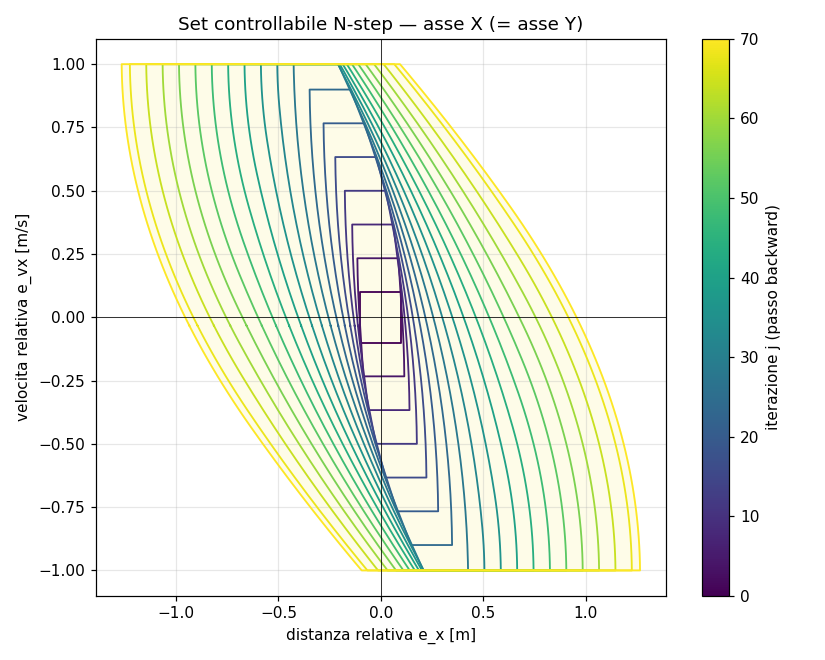
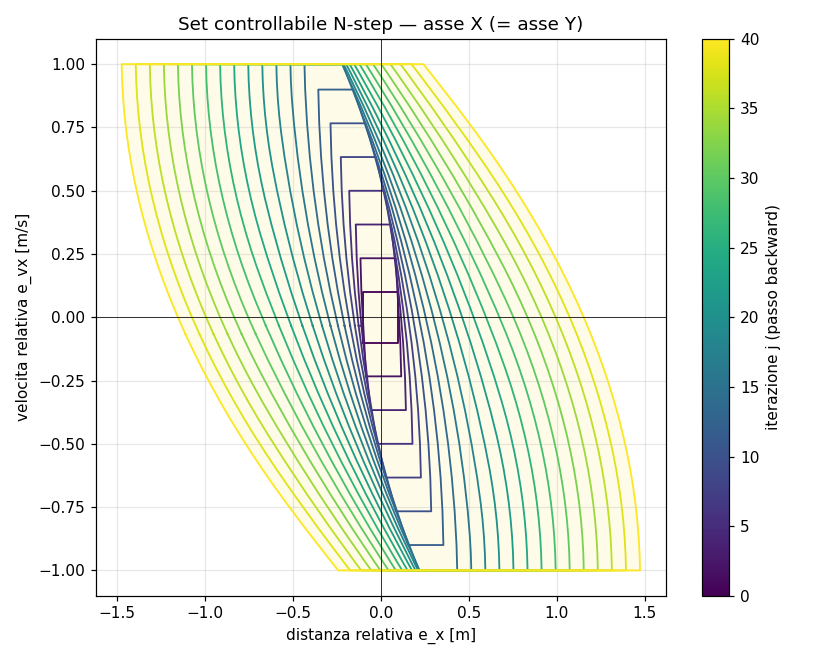
dt discrepancy between polytope and controller fixed, N decreased to 40 to have 22ms as max time needed in first MPC iteration, start tu re-tune some weight to have PID-MPC continuity

diff --git a/MPC_firmware_sim/main_alpha_landing.py b/MPC_firmware_sim/main_alpha_landing.py
@@ -206,10 +206,10 @@ def plot_advanced_diagnostics(rows, target_xy, z_land, stamp=None, alpha_cone=1.
     except ImportError:
         print("Matplotlib non disponibile per i plot avanzati.")
         return
-
+ 
     if not rows:
         return
-
+ 
     # Genera un timestamp se non viene passato
     if stamp is None:
         stamp = datetime.now().strftime("%Y%m%d_%H%M%S")
@@ -217,7 +217,7 @@ def plot_advanced_diagnostics(rows, target_xy, z_land, stamp=None, alpha_cone=1.
     # Crea la cartella se non esiste
     save_dir = "last_run_plots"
     os.makedirs(save_dir, exist_ok=True)
-
+ 
     # 1. Estrazione dati dal dizionario
     t = np.array([r["t"] for r in rows])
     pos = np.array([[r["x"], r["y"], r["z"]] for r in rows]).T
@@ -227,7 +227,7 @@ def plot_advanced_diagnostics(rows, target_xy, z_land, stamp=None, alpha_cone=1.
     
     landing_mask = (state_str == "landing")
     fp = np.array([target_xy[0], target_xy[1], z_land])
-
+ 
     # =====================================================================
     # PLOT 1: Traiettoria 3D e 2D (Reale vs LOS)
     # =====================================================================
@@ -235,7 +235,7 @@ def plot_advanced_diagnostics(rows, target_xy, z_land, stamp=None, alpha_cone=1.
     ax3d = fig3d.add_subplot(111, projection='3d')
     fig2d = plt.figure(figsize=(10, 8))
     ax2d = fig2d.add_subplot(111)
-
+ 
     # 3D
     ax3d.plot(pos[0], pos[1], pos[2], label="Trajectory", color='b', linewidth=2)
     ax3d.plot(los[0], los[1], los[2], label="LOS Target", color='g', linestyle='--', linewidth=1.5)
@@ -252,7 +252,7 @@ def plot_advanced_diagnostics(rows, target_xy, z_land, stamp=None, alpha_cone=1.
     png_3d = f"{save_dir}/flight_{stamp}_3d_track.png"
     fig3d.savefig(png_3d, dpi=110)
     print(f"Plot 3D salvato: {png_3d}")
-
+ 
     # 2D
     ax2d.plot(pos[0], pos[1], label="Trajectory", color='b', linewidth=2)
     ax2d.plot(los[0], los[1], label="LOS Target", color='g', linestyle='--', linewidth=1.5)
@@ -267,7 +267,7 @@ def plot_advanced_diagnostics(rows, target_xy, z_land, stamp=None, alpha_cone=1.
     png_2d = f"{save_dir}/flight_{stamp}_2d_track.png"
     fig2d.savefig(png_2d, dpi=110)
     print(f"Plot 2D salvato: {png_2d}")
-
+ 
     # =====================================================================
     # PLOT 2: Reachable Polytope Entry (Solo fase Landing)
     # =====================================================================
@@ -278,13 +278,13 @@ def plot_advanced_diagnostics(rows, target_xy, z_land, stamp=None, alpha_cone=1.
         
         ep, ev, tt = pos[:, landing_mask] - fp[:, None], vel[:, landing_mask], t[landing_mask]
         Np = ep.shape[1]
-
+ 
         def inside(H, h, e, v): return np.all(H @ np.array([e, v]) <= h + 1e-6)
         in_all = np.array([inside(H_ax, h_ax, ep[0, k], ev[0, k]) and 
                            inside(H_ax, h_ax, ep[1, k], ev[1, k]) and 
                            inside(H_vz, h_vz, ep[2, k], ev[2, k]) for k in range(Np)])
         entry = int(np.argmax(in_all)) if in_all.any() else None
-
+ 
         panels = [("Asse X", ep[0], ev[0], V_ax, "e_x [m]", "e_vx [m/s]"),
                   ("Asse Y", ep[1], ev[1], V_ax, "e_y [m]", "e_vy [m/s]"),
                   ("Asse Z", ep[2], ev[2], V_vz, "e_z [m]", "e_vz [m/s]")]
@@ -317,7 +317,7 @@ def plot_advanced_diagnostics(rows, target_xy, z_land, stamp=None, alpha_cone=1.
         
     except FileNotFoundError:
         print(f"File {polytope_path} non trovato, plot politopo ignorato.")
-
+ 
     # =====================================================================
     # PLOT 3: Glideslope Cone (CBF)
     # =====================================================================
@@ -326,10 +326,10 @@ def plot_advanced_diagnostics(rows, target_xy, z_land, stamp=None, alpha_cone=1.
         d_xy = np.sqrt(ex**2 + ey**2)
         margin = ez - alpha_cone * np.maximum(0, d_xy - r_base)
         n_out = int(np.sum((margin < -1e-6) & (ez < z_cut)))
-
+ 
         fig_cone = plt.figure(figsize=(11, 8))
         ax_cone = fig_cone.add_subplot(111, projection="3d")
-
+ 
         r_max = float(np.nanmax(d_xy)) * 1.05 + 1e-6
         rr, th = np.linspace(0, r_max, 30), np.linspace(0, 2*np.pi, 40)
         R, TH = np.meshgrid(rr, th)
@@ -338,18 +338,33 @@ def plot_advanced_diagnostics(rows, target_xy, z_land, stamp=None, alpha_cone=1.
         
         ax_cone.plot_surface(Xc, Yc, Zc, alpha=0.15, color="tab:green", linewidth=0, antialiased=True)
         ax_cone.plot_wireframe(Xc, Yc, Zc, color="tab:green", linewidth=0.4, rstride=4, cstride=4, alpha=0.5)
-
+ 
         pts3d = np.array([ex, ey, ez]).T.reshape(-1, 1, 3)
         segs3d = np.concatenate([pts3d[:-1], pts3d[1:]], axis=1)
         lc3d = Line3DCollection(segs3d, cmap="plasma", linewidth=2.5)
         lc3d.set_array(tt[:-1])
         ax_cone.add_collection3d(lc3d)
-
+ 
         ax_cone.scatter(ex[0], ey[0], ez[0], c="k", s=60, label="inizio landing")
         ax_cone.scatter(ex[-1], ey[-1], ez[-1], marker="*", s=260, c="red", edgecolor="k", label="touchdown")
-
+ 
         fig_cone.colorbar(lc3d, ax=ax_cone, fraction=0.03, pad=0.08).set_label("tempo [s] (landing)")
         ax_cone.set_xlabel("e_x [m]"); ax_cone.set_ylabel("e_y [m]"); ax_cone.set_zlabel("e_z [m]")
+ 
+        # --- ASPECT RATIO FISICO: 1 metro = stessa lunghezza su x, y, z ---------
+        # senza questo matplotlib rende il box cubico e il cono appare sempre
+        # ugualmente svasato a prescindere da alpha. Imponiamo range uguali sui
+        # tre assi (il piu' grande dei tre) centrati, cosi' la pendenza reale
+        # del cono (governata da alpha) e' visibile.
+        xall = np.concatenate([Xc.ravel(), ex]); yall = np.concatenate([Yc.ravel(), ey])
+        zall = np.concatenate([Zc.ravel(), ez])
+        xr = (xall.min(), xall.max()); yr = (yall.min(), yall.max()); zr = (zall.min(), zall.max())
+        max_range = max(xr[1]-xr[0], yr[1]-yr[0], zr[1]-zr[0]) / 2.0
+        xm = 0.5*(xr[0]+xr[1]); ym = 0.5*(yr[0]+yr[1]); zm = 0.5*(zr[0]+zr[1])
+        ax_cone.set_xlim(xm-max_range, xm+max_range)
+        ax_cone.set_ylim(ym-max_range, ym+max_range)
+        ax_cone.set_zlim(zm-max_range, zm+max_range)
+        ax_cone.set_box_aspect((1, 1, 1))   # box cubico + range uguali => scala metrica isotropa
         status = "DENTRO il cono" if n_out == 0 else f"{n_out}/{Np} campioni FUORI"
         ax_cone.set_title(f"Traiettoria di landing nel cono (alpha={alpha_cone}) — {status}")
         ax_cone.legend(loc="upper left")
@@ -358,8 +373,9 @@ def plot_advanced_diagnostics(rows, target_xy, z_land, stamp=None, alpha_cone=1.
         png_cone = f"{save_dir}/flight_{stamp}_cone.png"
         fig_cone.savefig(png_cone, dpi=110, bbox_inches="tight")
         print(f"Plot Cono salvato: {png_cone}")
-
+ 
     plt.show()
+
 
 
 def main():
@@ -472,7 +488,7 @@ def main():
                             # la retta di landing (P_start->target) sta DENTRO il cono con margine
                             # alpha*r_base (grazie al cilindro di base), e il landing scatta quando
                             # il drone RAGGIUNGE P_start -> nessun salto di riferimento.
-                            dist_xy_start = (Z_HOLD - Z_LAND) / ALPHA_CONE
+                            dist_xy_start = (Z_HOLD - Z_LAND) / ALPHA_CONE 
                             seg_nav = WP[HOLD][0:2] - WP[NAV][0:2]
                             Lnav = np.linalg.norm(seg_nav)
                             u_nav = seg_nav / Lnav if Lnav > 1e-6 else np.zeros(2)
@@ -494,7 +510,7 @@ def main():
         stamp=current_stamp,
         alpha_cone=ALPHA_CONE,
         z_cut=1.0, 
-        r_base=0.1
+        r_base=0.3
     )
 
 

diff --git a/MPC_firmware_sim/controller_deploy.py b/MPC_firmware_sim/controller_deploy.py
@@ -30,7 +30,7 @@ class HybridController:
         self.mpc_dt = self.MPC_FREQ_DIVIDER * self.dt
         self.M = mass
         self.GRAVITY = mass * g
-        self.N = 70
+        self.N = 40
 
         # ---- MPC prediction models (identici al sim) -----------------------
         self.A_hrz = np.array([[1, 0, self.mpc_dt, 0],
@@ -50,9 +50,9 @@ class HybridController:
         self.D_COEFF_FOR = np.array([.2, .2, .5])
 
         # ---- MPC weights ---------------------------------------------------
-        self.Q_hrz = np.diag([20.0, 20.0, 10.0, 10.0])
+        self.Q_hrz = np.diag([20.0, 20.0, 15.0, 15.0])
         self.R_hrz = np.diag([10.0, 10.0])
-        self.Q_vrt = np.diag([30.0, 15.0])
+        self.Q_vrt = np.diag([20.0, 15.0])
         self.R_vrt = np.diag([15.0])
 
         # ---- Cone CBF (glideslope) -----------------------------------------
@@ -62,7 +62,7 @@ class HybridController:
         self.alpha_cone = 1.0
         self.gamma_cbf = 0.5
         self.z_cut = 1.0
-        self.r_base = 0.1
+        self.r_base = 0.3
         self.rho_slack = 1e4        # peso penalita' slack del cono (grande = slack usato solo se necessario)
 
         # ---- multi-rate decimation -----------------------------------------

diff --git a/MPC_firmware_sim/controller_deploy_backup.py b/MPC_firmware_sim/controller_deploy_backup.py
@@ -28,7 +28,7 @@ class HybridController:
         self.dt = dt
         self.M = mass
         self.GRAVITY = mass * g
-        self.N = 70
+        self.N = 40
 
         # ---- MPC prediction models (identici al sim) -----------------------
         self.A_hrz = np.array([[1, 0, dt, 0],
@@ -48,7 +48,7 @@ class HybridController:
         self.D_COEFF_FOR = np.array([.2, .2, .5])
 
         # ---- MPC weights ---------------------------------------------------
-        self.Q_hrz = np.diag([20.0, 20.0, 10.0, 10.0])
+        self.Q_hrz = np.diag([20.0, 20.0, 15.0, 15.0])
         self.R_hrz = np.diag([10.0, 10.0])
         self.Q_vrt = np.diag([30.0, 15.0])
         self.R_vrt = np.diag([15.0])
@@ -60,12 +60,14 @@ class HybridController:
 
         # ---- Cone CBF (glideslope) -----------------------------------------
         self.cbf_cone_enabled = True
-        #self.alpha_cone = 1.72
 
+        #self.alpha_cone = 5.6
         self.alpha_cone = 1.0
-        self.gamma_cbf = 0.5
         self.z_cut = 1.0
-        self.r_base = 0.1
+        self.r_base = 0.3
+
+        self.gamma_cbf = 0.5
+        
 
         # ---- multi-rate decimation -----------------------------------------
         self.MPC_FREQ_DIVIDER = 2

diff --git a/MPC_firmware_sim/build_reachable_polytope.py b/MPC_firmware_sim/build_reachable_polytope.py
@@ -167,7 +167,7 @@ def controllable_set(A, B, XH, Xh, UH, Uh, SH, Sh, N, tag=""):
 #  Build
 # ----------------------------------------------------------------------
 def main():
-    dt = 0.02
+    dt = 0.04
     g = 9.8
 
     # ---------- per-axis HORIZONTAL double integrator ----------
@@ -182,7 +182,7 @@ def main():
     XH, Xh = box([pos_max, v_max])
     UH, Uh = box([a_xy_lim])
     SH, Sh = box([0.10, 0.10])     # terminal "captured" box (rel. pos & vel)
-    N_hrz = 70
+    N_hrz = 40
 
     print("Horizontal per-axis controllable set:")
     #H_ax, h_ax = controllable_set(A_ax, B_ax, XH, Xh, UH, Uh, SH, Sh, N_hrz, "hrz")
@@ -207,7 +207,7 @@ def main():
     XHv, Xhv = box([pos_max, v_max])
     UHv, Uhv = box([az_lim])
     SHv, Shv = box([0.10, 0.10])
-    N_vrt = 70
+    N_vrt = 40
 
     print("Vertical controllable set:")
     #H_vz, h_vz = controllable_set(A_vz, B_vz, XHv, Xhv, UHv, Uhv, SHv, Shv, N_vrt, "vrt")

diff --git a/MPC_firmware_sim/main_geometric_landing.py b/MPC_firmware_sim/main_geometric_landing.py
@@ -45,7 +45,7 @@ TARGET_XY = np.array([3.5, 3.5])
 Z_CRUISE = 1.8
 Z_LAND = 0.1
 Z_HOLD = 1.8
-ALPHA_CONE = 5.6
+ALPHA_CONE = 0.56
 #ALPHA_CONE = 1.0
 LOS_DELTA = 0.3
 A_XY = 0.17
@@ -459,7 +459,7 @@ def main():
                         d_xy = np.linalg.norm(TARGET_XY - pos[0:2])
                         if d_xy <= (Z_HOLD / ALPHA_CONE):
                         #if d_xy <= (Z_HOLD / ALPHA_CONE):
-                            state = "landing"; old_wp_id, wp_counter, stop_delta = HOLD, LANDING, 0.1
+                            state = "landing"; old_wp_id, wp_counter, stop_delta = HOLD, LANDING, 0.05
                             dynamic_p_start = p_LOS.copy()
                             land_t0 = time.perf_counter()
                     elif distance <= stop_delta:
